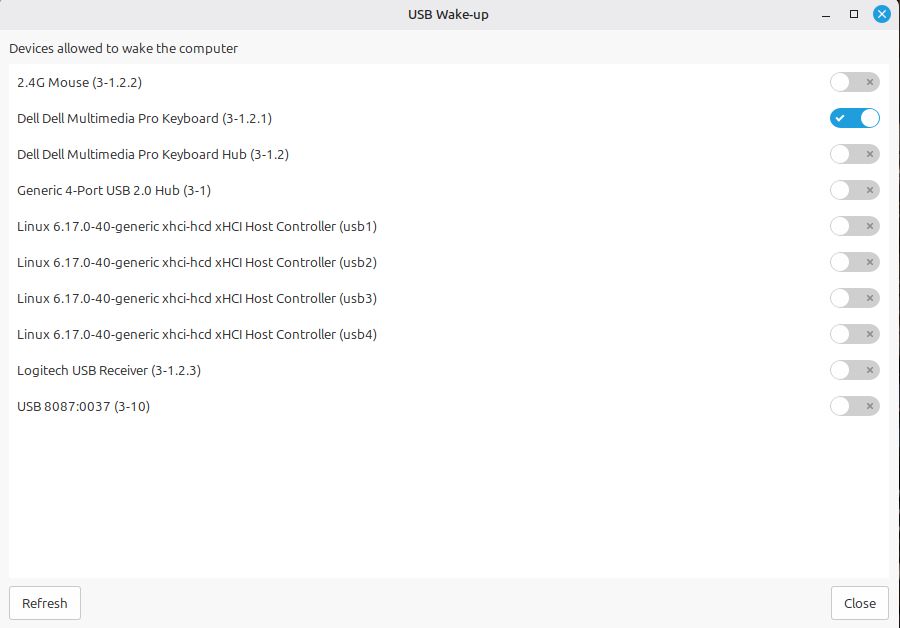
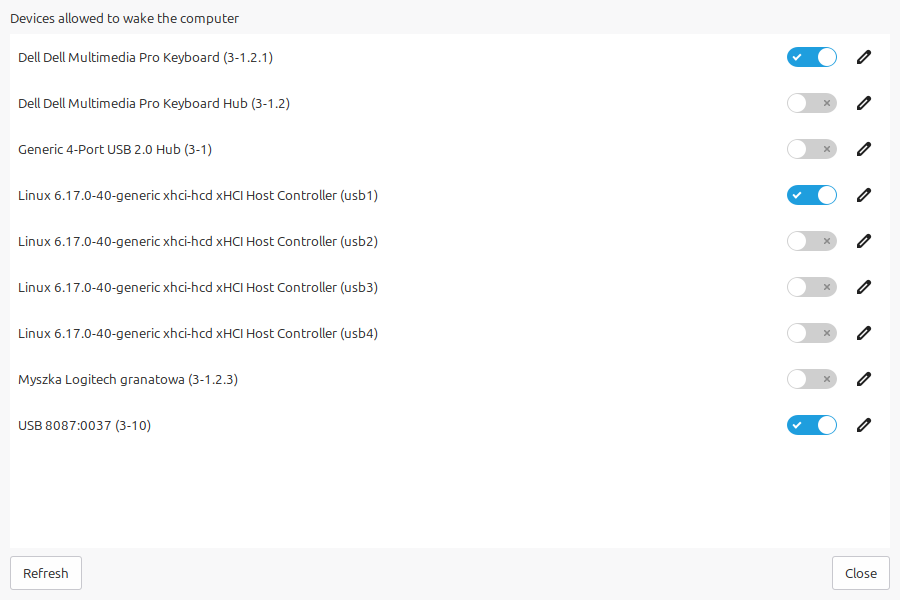
Update GUI screenshot, add AGENTS.md
Refresh gui-window.png to show the new inline rename feature; add
AGENTS.md with repo conventions for AI coding agents.

diff --git a/AGENTS.md b/AGENTS.md
@@ -1,0 +1,73 @@
+# AGENTS.md
+
+Guidance for AI coding agents working in this repository.
+
+## What this project is
+
+A Linux Mint / Cinnamon 6.x tool for choosing which USB devices are allowed
+to wake the computer from sleep (`/sys/bus/usb/devices/<id>/power/wakeup`).
+Four entry points share one persistence model:
+
+- `usb-wakeup@jkatnik/applet.js` — Cinnamon panel applet (GJS).
+- `bin/usb-wakeup` — Python 3 + GTK3 tool: curses text menu (no args),
+  `gui` (GTK window), `list`/`enable`/`disable` (scriptable CLI).
+- `helper/usb-wakeup-helper.sh` — the only component that runs as root, via
+  `pkexec`. Writes the sysfs `power/wakeup` attribute and persists the
+  chosen state to `/etc/usb-wakeup/config`, keyed by USB `idVendor:idProduct`.
+- `udev/usb-wakeup-apply.sh` + `udev/99-usb-wakeup.rules` — reapply the
+  saved state on hotplug/boot, since the sysfs value does not survive reboot.
+- `polkit/org.cinnamon.applets.usbwakeup.policy` — scopes `pkexec` to the
+  exact helper script path.
+
+All four UIs call the same helper for privileged writes, so a change made
+in one is reflected everywhere else.
+
+## Key conventions
+
+- **No comments explaining what code does.** Identifiers are expected to be
+  self-explanatory; only add a comment for a non-obvious *why*.
+- **Bilingual UI strings.** `bin/usb-wakeup` and `applet.js` both keep a
+  `STRINGS`/translation table with `pl` and `en` entries, selected from the
+  system locale (`pl*` → Polish, otherwise English). Any user-facing string
+  addition needs both.
+- **Privilege boundary.** Only `usb-wakeup-helper.sh` runs as root, only via
+  `pkexec`, and only for writing `power/wakeup` + the `/etc/usb-wakeup/config`
+  wake-up state. It validates the device id against `[A-Za-z0-9._-]+`,
+  rejects `..`, and resolves the target with `readlink -f` before writing —
+  do not weaken these checks. Anything that doesn't need root (e.g. custom
+  device labels) must NOT go through the helper/pkexec; it belongs in a
+  user-owned file instead (see `~/.config/usb-wakeup/labels.json`).
+- **Device identity.** The volatile sysfs path (e.g. `3-1.2.1`) is only
+  used to locate the device right now. Anything meant to persist across
+  reboots/reconnects (wake-up state, custom labels) is keyed by
+  `idVendor:idProduct`, matching the udev rule's restore logic.
+- **`list_devices()` in `bin/usb-wakeup`** is the single source of truth for
+  device enumeration/labeling — the curses menu, the GTK window, and the
+  CLI (`list`/`enable`/`disable`) all read from it, so a labeling or
+  enumeration change there applies everywhere automatically.
+
+## Testing changes
+
+There is no automated test suite. Verify manually:
+
+```bash
+python3 -m py_compile bin/usb-wakeup   # syntax check
+python3 bin/usb-wakeup list            # CLI path, no GTK needed
+python3 bin/usb-wakeup gui             # GTK window (needs a display)
+python3 bin/usb-wakeup                 # curses text menu (needs a terminal)
+```
+
+For the Cinnamon applet, changes under `usb-wakeup@jkatnik/` are only
+picked up after restarting Cinnamon (`Alt+F2`, `r`, `Enter`) or re-running
+`./install.sh`, which copies the applet into
+`~/.local/share/cinnamon/applets/usb-wakeup@jkatnik`.
+
+Do not test privileged writes (`pkexec`, editing `/etc/usb-wakeup/config`)
+against the real system without the user's confirmation — it prompts for a
+password and mutates real device wake-up state.
+
+## Screenshots
+
+`README.md` embeds `docs/screenshots/{applet-menu,gui-window,text-menu}.png`.
+Regenerate a screenshot only for the surface you actually changed; the other
+two stay valid otherwise.
